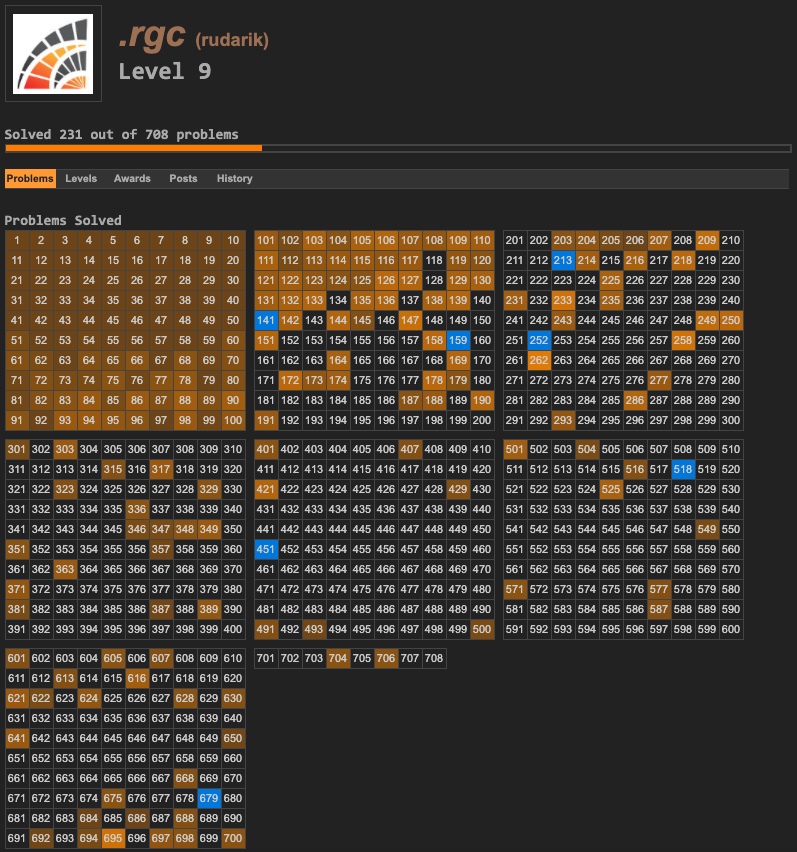
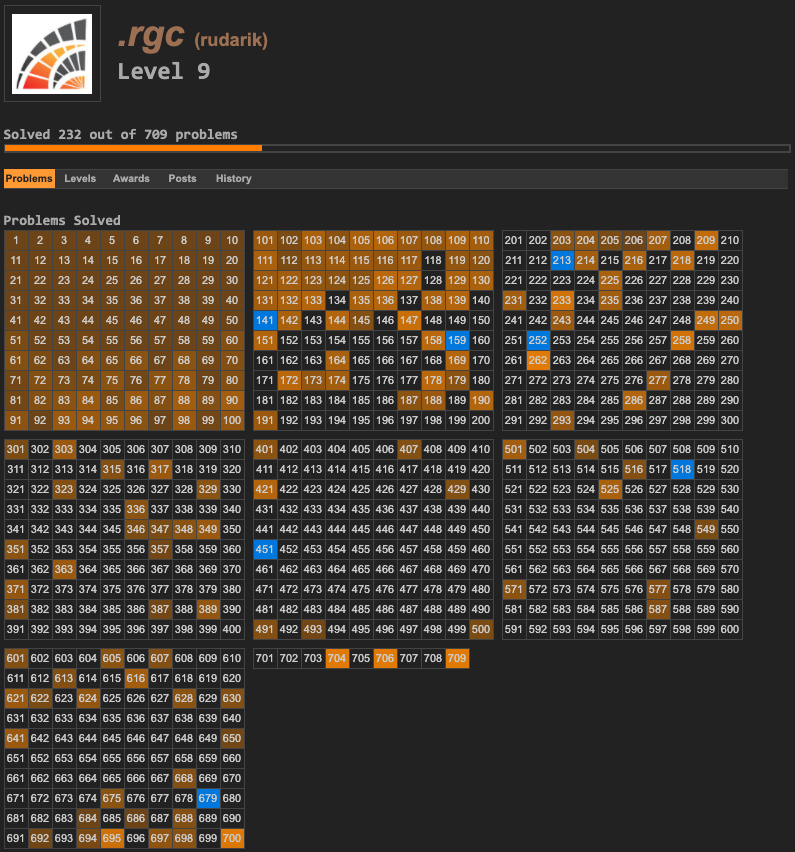
Solved PE709

diff --git a/README.md b/README.md
@@ -111,6 +111,9 @@ Problem 209: "Circular Logic"
 * [Multiplicative Function](https://en.wikipedia.org/wiki/Multiplicative_function):
 Problem 675: "2^w(n)"
 
+* [Alternating Permutation](https://en.wikipedia.org/wiki/Alternating_permutation):
+Problem 709: "Even Stevens"
+
 * [Symmetric Polynomial](https://en.wikipedia.org/wiki/Symmetric_polynomial)
 
 * [Generating Function](https://en.wikipedia.org/wiki/Generating_function)
@@ -132,4 +135,8 @@ Problem 675: "2^w(n)"
 * [Binary Search](https://en.wikipedia.org/wiki/Binary_search_algorithm)
 
 * [Gamma Function](https://en.wikipedia.org/wiki/Gamma_function)
+
+* [Euler Numbers](https://en.wikipedia.org/wiki/Euler_number)
+
+* [Catalan Number](https://en.wikipedia.org/wiki/Catalan_number)
 
